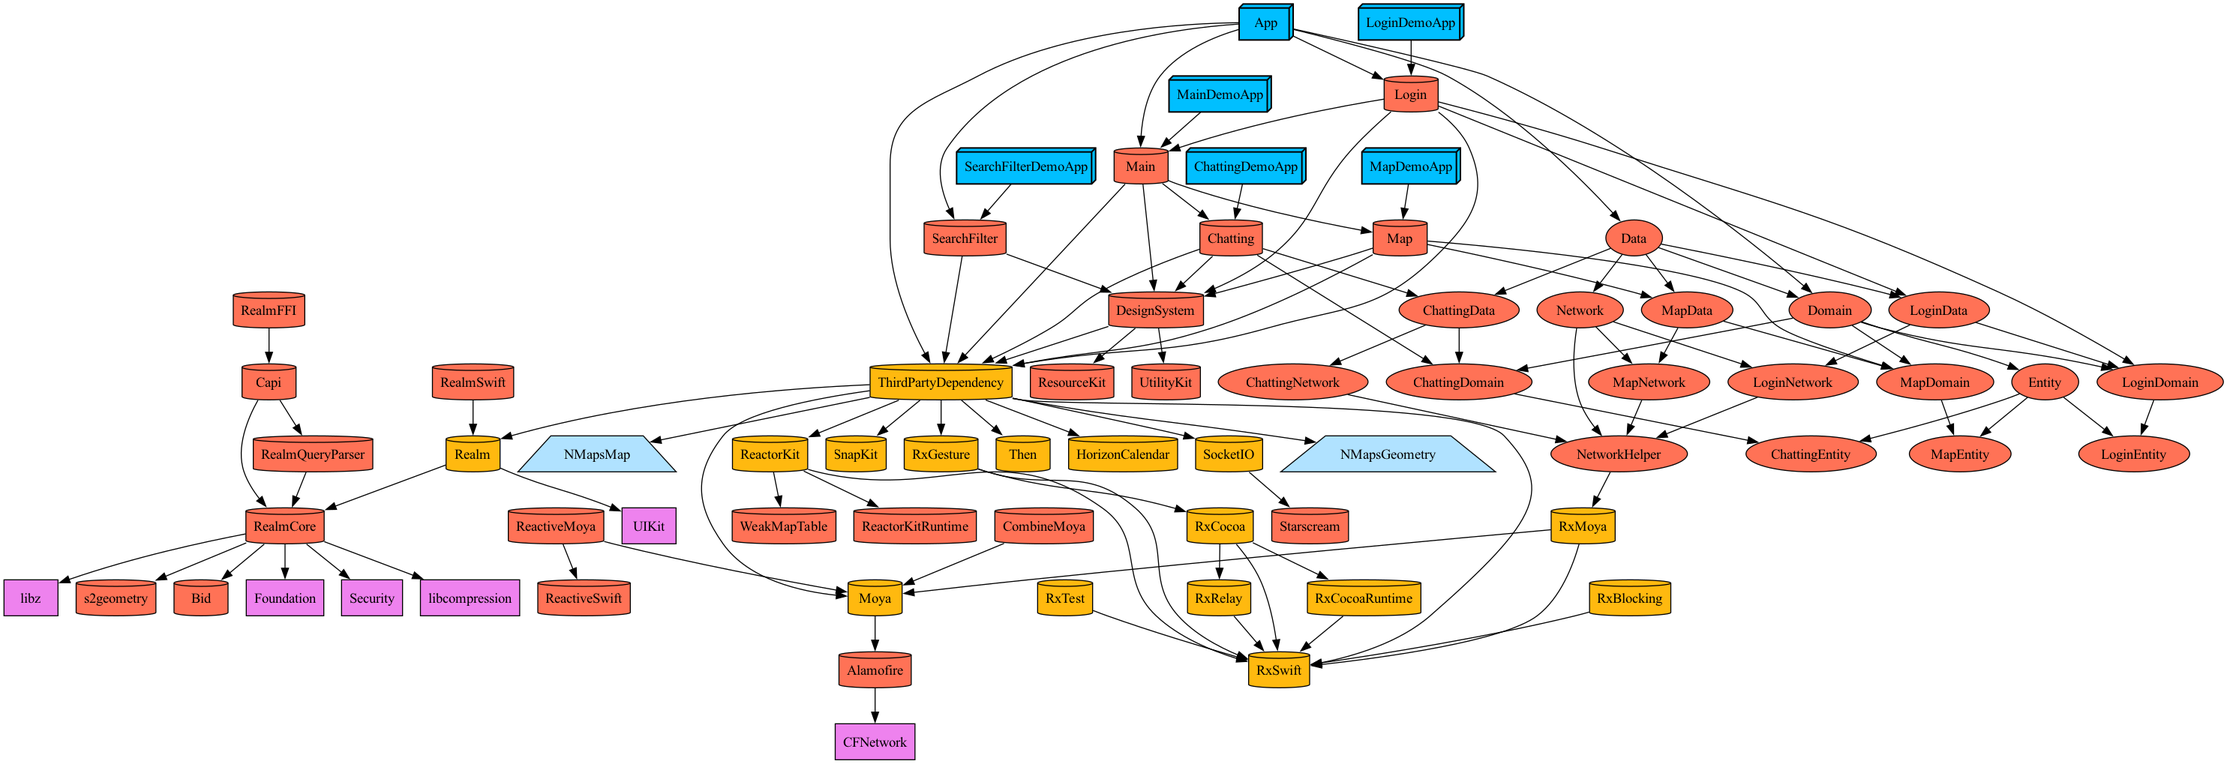
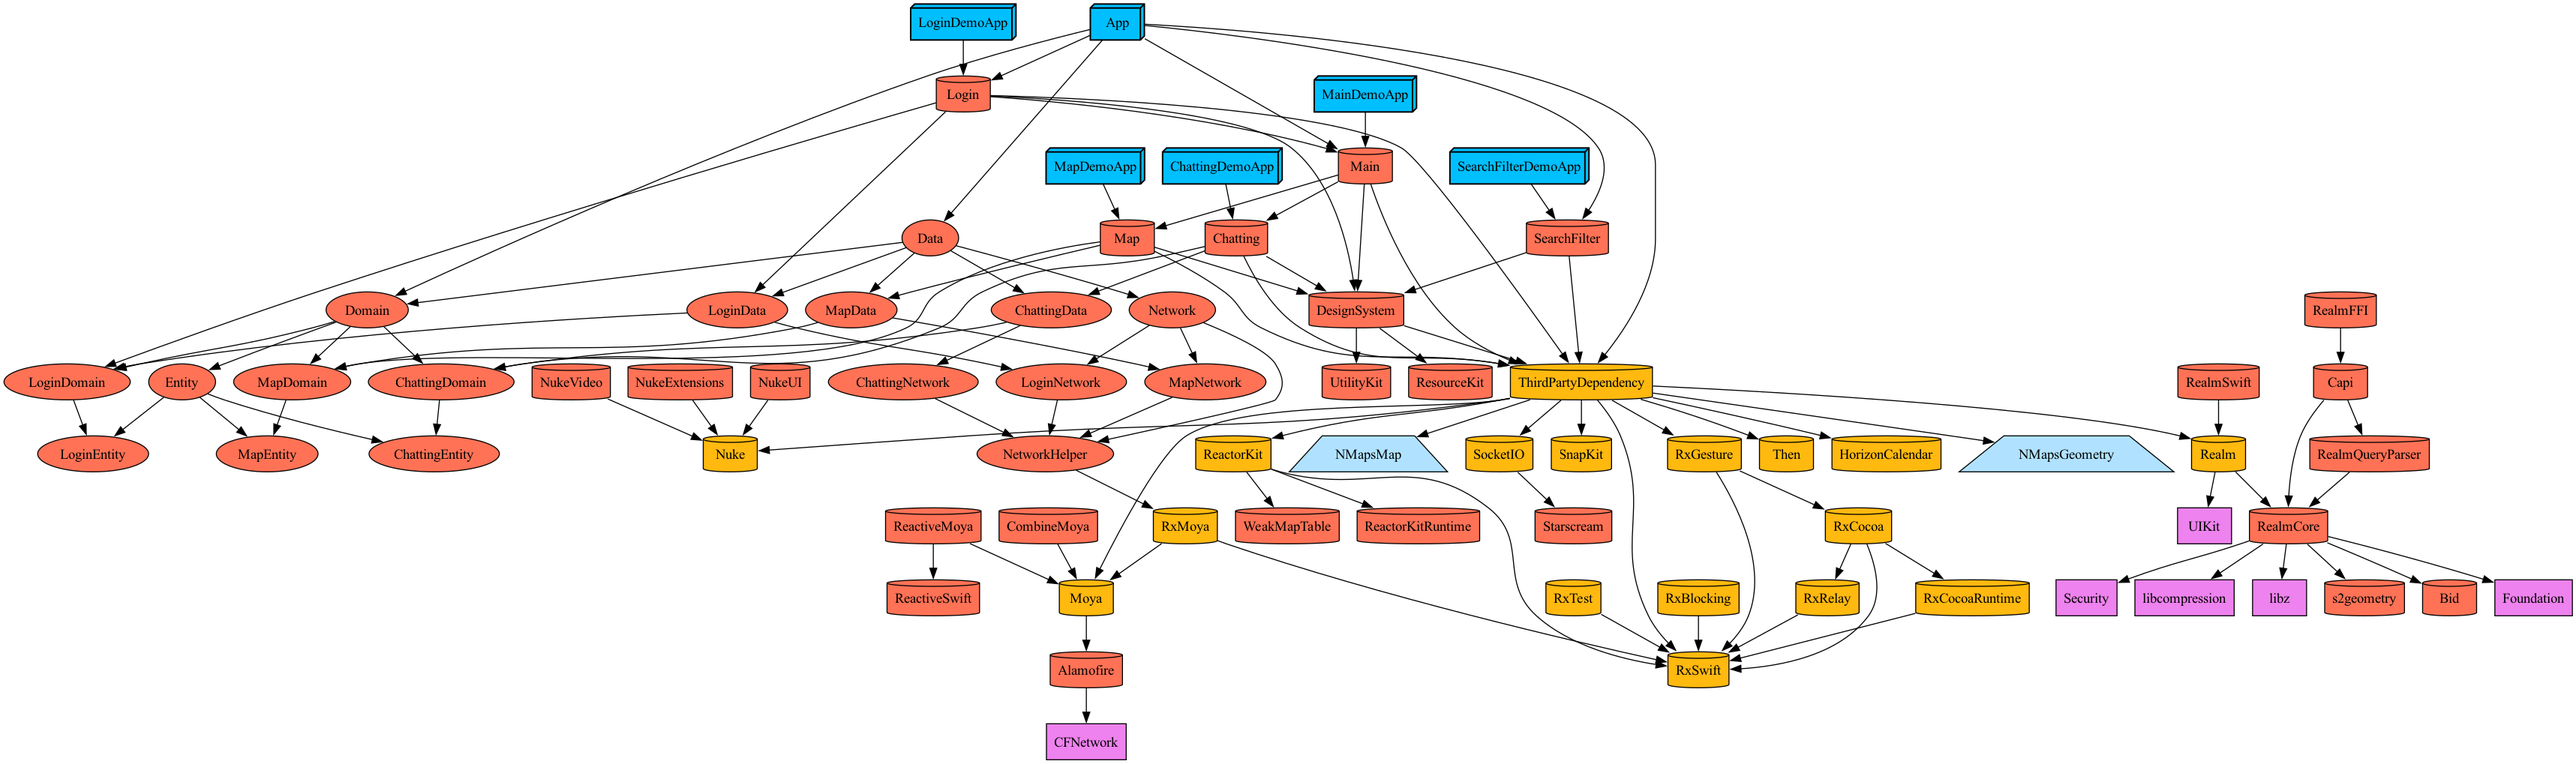
[SETTING] `Nuke` Library Dependency

diff --git a/Tuist/Dependencies.swift b/Tuist/Dependencies.swift
@@ -18,7 +18,8 @@ let thirdPartySPM = SwiftPackageManagerDependencies(
     .package(url: "https://github.com/ReactorKit/ReactorKit.git", .upToNextMajor(from: "3.0.0")),
     .package(url: "https://github.com/airbnb/HorizonCalendar.git", from: "2.0.0"),
     .package(url: "https://github.com/socketio/socket.io-client-swift", .upToNextMajor(from: "16.0.0")),
-    .package(url: "https://github.com/realm/realm-swift", .upToNextMajor(from: "10.46.0"))
+    .package(url: "https://github.com/realm/realm-swift", .upToNextMajor(from: "10.46.0")),
+    .package(url: "https://github.com/kean/Nuke", .upToNextMajor(from: "12.0.0"))
   ],
   productTypes: [
     "SnapKit": .framework,
@@ -31,7 +32,8 @@ let thirdPartySPM = SwiftPackageManagerDependencies(
     "ReactorKit": .framework,
     "HorizonCalendar": .framework,
     "SocketIO": .framework,
-    "Realm": .framework
+    "Realm": .framework,
+    "Nuke": .framework
   ]
 )
 

diff --git a/Plugins/ThirdPartyDependencyPlugin/ProjectDescriptionHelpers/ThirdPartyDependency+Project.swift b/Plugins/ThirdPartyDependencyPlugin/ProjectDescriptionHelpers/ThirdPartyDependency+Project.swift
@@ -26,7 +26,8 @@ public extension TargetDependency.ThirdParty {
     ReactorKit,
     HorizontalCalendar,
     SocketIO,
-    Realm
+    Realm,
+    Nuke
   ]
   
   static func project(name: String) -> TargetDependency {
@@ -50,4 +51,5 @@ extension TargetDependency.ThirdParty {
   static let HorizontalCalendar = TargetDependency.external(name: "HorizonCalendar")
   static let SocketIO = TargetDependency.external(name: "SocketIO")
   static let Realm = TargetDependency.external(name: "Realm")
+  static let Nuke = TargetDependency.external(name: "Nuke")
 }
